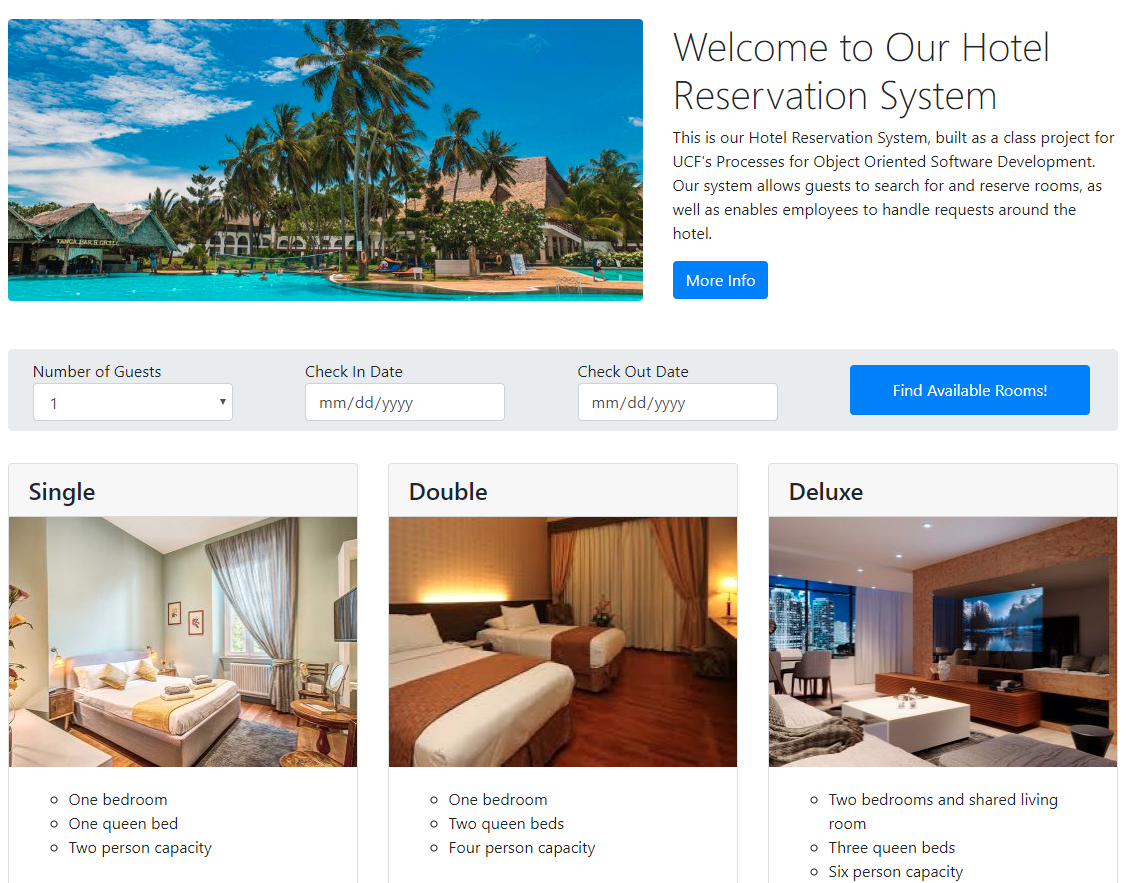
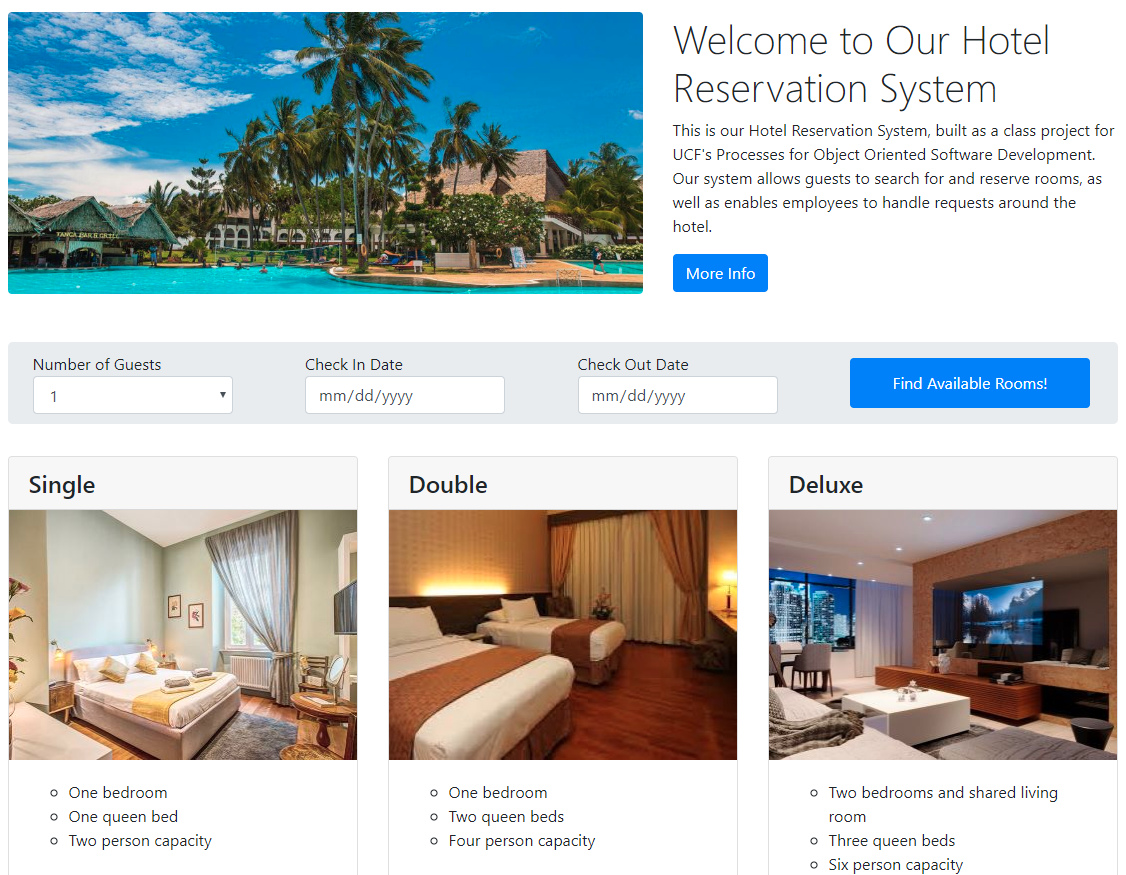
Portfolio

diff --git a/index.html b/index.html
@@ -481,7 +481,7 @@
 
 				 <div class="bgrid folio-item">
 	               <div class="item-wrap">
-	               	<img src="images/portfolio/HotelReservationpic.PNG">
+	               	<img src="images/portfolio/HotelReservation.png">
 	                  <a href="#modal-04" class="overlay">
 	                     <div class="folio-item-table">
 	                     	<div class="folio-item-cell">
